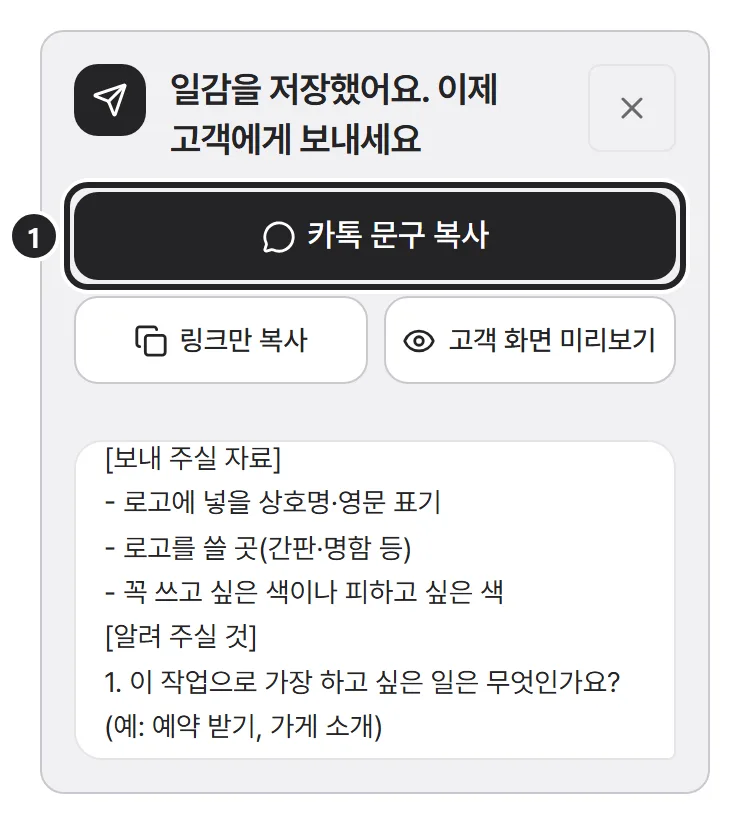
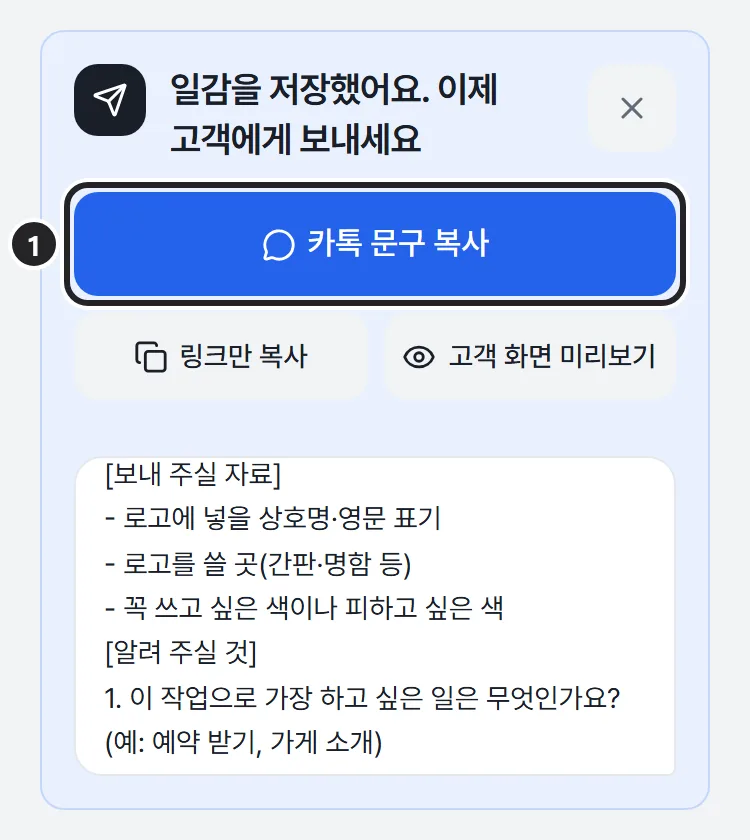
docs: 설명서 그림 9장을 디자인 A 화면으로 다시 찍고 그림 크기 값 맞춤
- npx playwright test -c playwright.guide.config.ts 로 9장 모두 다시 찍음(9 passed).
- 높이가 바뀐 6장(02·03·04·05·07·09)의 width/height를 설명서와 첫 실행 안내에 맞춤.

diff --git a/src/components/user-guide.tsx b/src/components/user-guide.tsx
@@ -43,14 +43,14 @@ export const GUIDE_CHAPTERS: GuideChapter[] = [
         id: "packages",
         title: "패키지는 한 번만 저장해요",
         caption: "금액·기간·수정 횟수에 받을 자료·질문까지 묶어 둬요.",
-        image: { src: "/guide/02-packages.webp", alt: "패키지 편집 화면. 받을 자료 칸에 1번, 착수 전 질문 칸에 2번, 패키지 저장 버튼에 3번 표시", width: 750, height: 2242 },
+        image: { src: "/guide/02-packages.webp", alt: "패키지 편집 화면. 받을 자료 칸에 1번, 착수 전 질문 칸에 2번, 패키지 저장 버튼에 3번 표시", width: 750, height: 2258 },
       },
       {
         id: "new-job",
         title: "주문이 오면 네 가지만 골라요",
         caption: "고객·시작일·패키지·옵션을 고르면 금액·마감·할 일이 채워져요.",
         detail: "받은 곳은 비워 두고, 지난 주문의 받은 곳을 옆에 작게 알려 줘요.",
-        image: { src: "/guide/03-new-job.webp", alt: "새 일감 화면. 고객 이름·시작일·패키지·옵션에 1~4번, 아래 일감 만들기 버튼에 5번 표시. 받은 곳은 크몽이 골라져 있음", width: 750, height: 2544 },
+        image: { src: "/guide/03-new-job.webp", alt: "새 일감 화면. 고객 이름·시작일·패키지·옵션에 1~4번, 아래 일감 만들기 버튼에 5번 표시. 받은 곳은 크몽이 골라져 있음", width: 750, height: 2530 },
       },
     ],
   },
@@ -64,14 +64,14 @@ export const GUIDE_CHAPTERS: GuideChapter[] = [
         title: "카톡 문구 하나만 복사해요",
         caption: "링크·받을 자료·질문이 한 문구에 들어 있어요.",
         detail: "평소 대화창에 붙여 보내요. 자동으로 보내지지는 않아요.",
-        image: { src: "/guide/04-send-message.webp", alt: "일감을 저장한 직후 안내. 카톡 문구 복사 버튼에 1번 표시, 아래 말풍선에 받을 자료와 질문이 든 보낼 문구", width: 750, height: 824 },
+        image: { src: "/guide/04-send-message.webp", alt: "일감을 저장한 직후 안내. 카톡 문구 복사 버튼에 1번 표시, 아래 말풍선에 받을 자료와 질문이 든 보낼 문구", width: 750, height: 840 },
       },
       {
         id: "check-answers",
         title: "답·자료가 오면 체크해요",
         caption: "고객은 링크 없이 대화창으로 답해도 돼요.",
         detail: "체크한 것은 다음에 보낼 문구에서 빠져요.",
-        image: { src: "/guide/05-checklist.webp", alt: "시작 전 받을 자료와 착수 전 질문 목록. 아직 안 받은 자료에 1번, 답을 못 받은 질문에 2번 표시", width: 750, height: 1400 },
+        image: { src: "/guide/05-checklist.webp", alt: "시작 전 받을 자료와 착수 전 질문 목록. 아직 안 받은 자료에 1번, 답을 못 받은 질문에 2번 표시", width: 750, height: 1464 },
       },
     ],
   },
@@ -92,7 +92,7 @@ export const GUIDE_CHAPTERS: GuideChapter[] = [
         title: "범위 밖은 추가요청으로 받아요",
         caption: "초안으로 적어 두고, 고객이 동의하면 확정해요.",
         detail: "확정하면 금액·마감·할 일에 반영돼요.",
-        image: { src: "/guide/07-addon.webp", alt: "추가요청 구획. 추가요청 기록 버튼에 1번, 초안의 확정 버튼에 2번 표시", width: 750, height: 580 },
+        image: { src: "/guide/07-addon.webp", alt: "추가요청 구획. 추가요청 기록 버튼에 1번, 초안의 확정 버튼에 2번 표시", width: 750, height: 578 },
       },
     ],
   },
@@ -113,7 +113,7 @@ export const GUIDE_CHAPTERS: GuideChapter[] = [
         title: "달마다 매출을 모아 봐요",
         caption: "완료한 주문을 받은 곳별로 보고 표 파일로 받아요.",
         detail: "'일감 완료'를 누른 주문이 모여요. 세금 계산이나 신고는 하지 않아요.",
-        image: { src: "/guide/09-monthly.webp", alt: "월별 정리 화면. 10월 내려받기 버튼에 1번 표시, 아래에 받은 곳별 합계", width: 750, height: 1350 },
+        image: { src: "/guide/09-monthly.webp", alt: "월별 정리 화면. 10월 내려받기 버튼에 1번 표시, 아래에 받은 곳별 합계", width: 750, height: 1362 },
       },
     ],
   },

diff --git a/src/components/first-run-checklist.tsx b/src/components/first-run-checklist.tsx
@@ -29,19 +29,19 @@ const STEP_COPY: Record<FirstRunStepId, { title: string; body: string; image: { 
   packages: {
     title: "내 일에 맞는 예시 패키지 고르기",
     body: "업종을 고르면 그 업종 예시 패키지로 바꿔 드려요. 금액은 예시라서 패키지 화면에서 내 조건으로 고쳐 쓰면 돼요.",
-    image: { src: "/guide/02-packages.webp", width: 750, height: 2242 },
+    image: { src: "/guide/02-packages.webp", width: 750, height: 2258 },
     alt: "받을 자료·착수 전 질문 칸이 보이는 패키지 화면 예시",
   },
   "first-job": {
     title: "첫 일감 만들기",
     body: "고객, 시작일, 패키지, 옵션 네 가지만 고르면 금액·마감·할 일·수정 횟수가 채워져요.",
-    image: { src: "/guide/03-new-job.webp", width: 750, height: 2544 },
+    image: { src: "/guide/03-new-job.webp", width: 750, height: 2530 },
     alt: "고객 이름·받은 곳·시작일이 보이는 새 일감 화면 예시",
   },
   "send-link": {
     title: "고객에게 수정 요청 링크 보내기",
     body: "일감 화면에서 링크나 카톡 문구를 복사해 보내요. 고객은 로그인 없이 열어 수정 요청을 남겨요.",
-    image: { src: "/guide/04-send-message.webp", width: 750, height: 824 },
+    image: { src: "/guide/04-send-message.webp", width: 750, height: 840 },
     alt: "카톡 문구 복사 버튼과 보낼 문구가 보이는 저장 직후 안내 예시",
   },
 };
